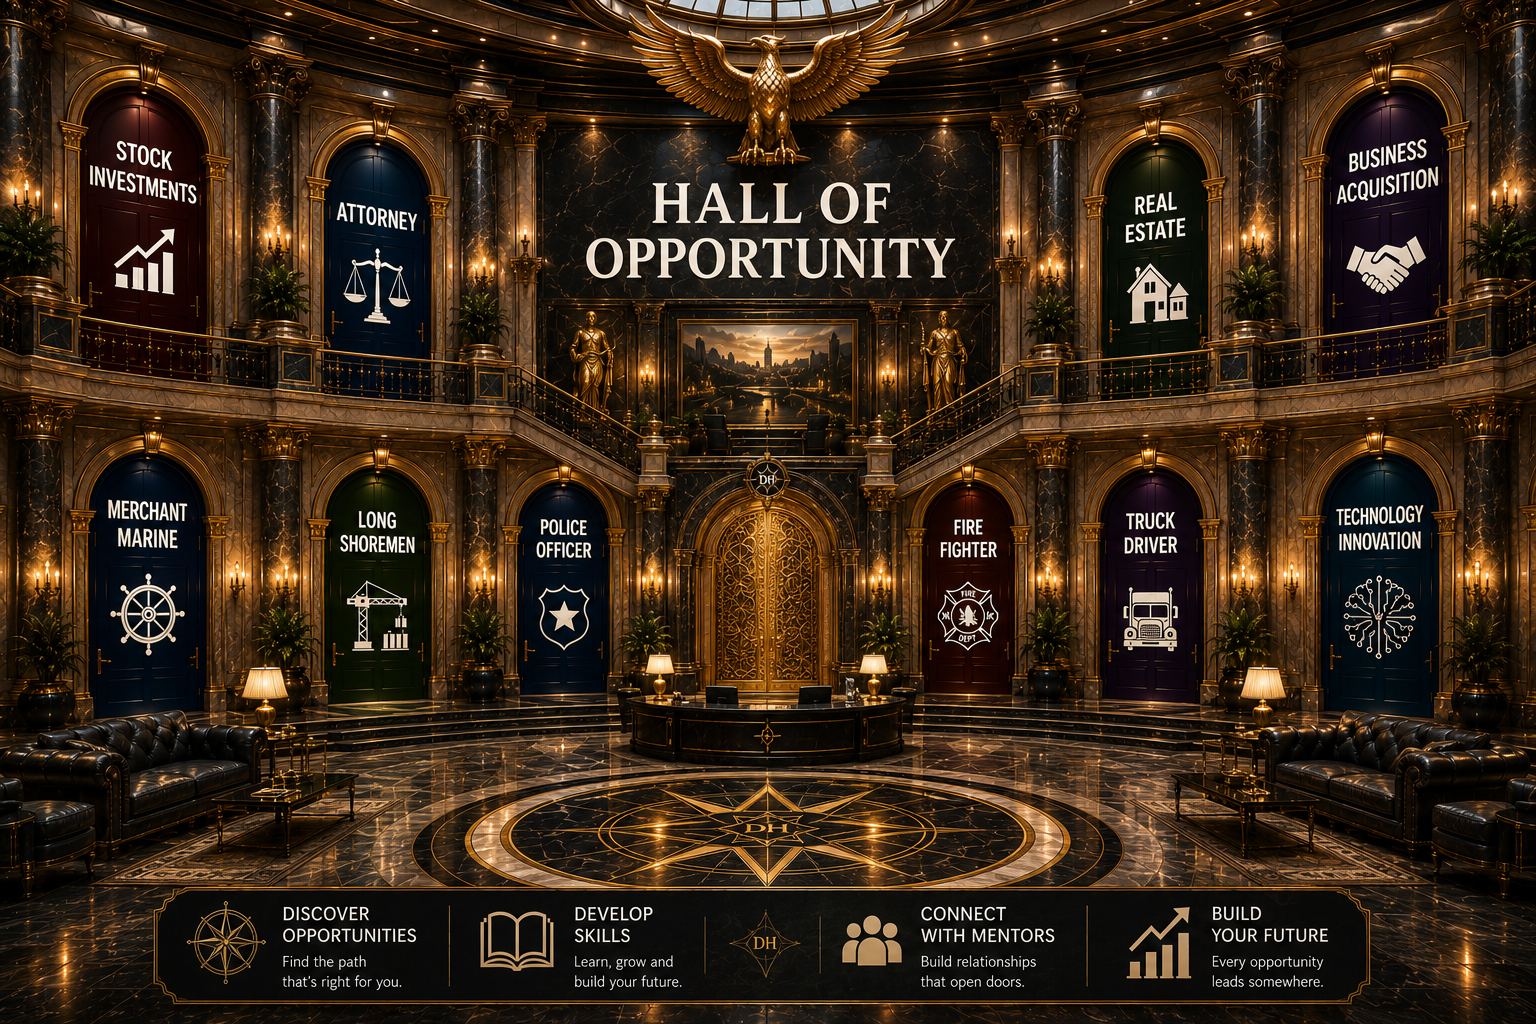
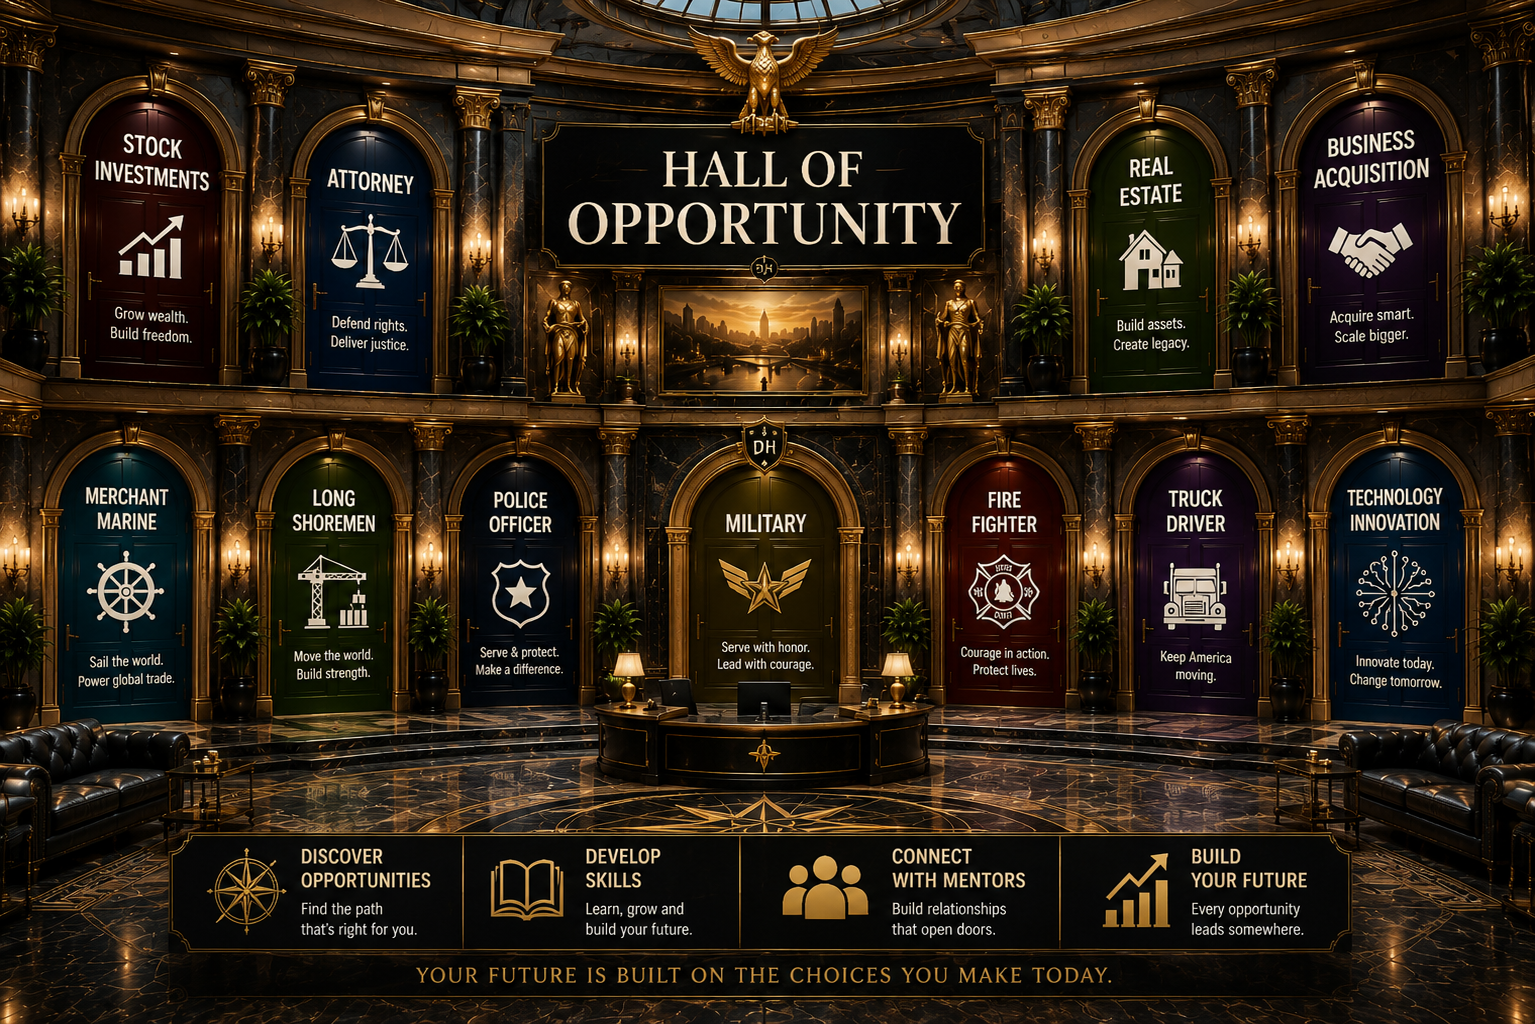
Replace interior hallway image with the Military-door version
The updated art replaces the old center grand-entrance door with a
proper "Military" door, so that pathway now gets a real name match
instead of being mapped onto the mismatched "Stock Investments" door.

Re-measured all 11 door positions in the new image and rebuilt
hallwayHotspots.ts: 6 direct name matches (up from 5), Real Estate
reassigned to Construction & Skilled Trades (better thematic fit than
its previous assignment), and "Stock Investments" is now intentionally
left without a hotspot since there's no pathway left to assign it to,
rather than sending a click to something unrelated.

Claude-Session: https://claude.ai/code/session_012ZiwYU8bzb6fNjUgie4oaQ

diff --git a/src/lib/hallwayHotspots.ts b/src/lib/hallwayHotspots.ts
@@ -3,16 +3,18 @@
  * public/images/hall-of-opportunity-interior.png (measured directly from
  * the image, in percent so they scale with the rendered image size).
  *
- * The reference art's 10 painted door labels don't all match our 10 real
- * pathways — 5 line up exactly (Merchant Marine, Longshoremen, Police
- * Officer, Firefighter, Truck Driver); the other 5 image doors (Stock
- * Investments, Attorney, Real Estate, Business Acquisition, Technology
- * Innovation) have no equivalent in our list, and Military, Construction
- * & Skilled Trades, Healthcare, and Cybersecurity have no door in the
- * image. Rather than inventing new pathways to match the art, the
- * remaining 5 slots are assigned to our remaining 5 real pathways so
- * every pathway stays reachable — the clicked label just won't always
- * match the image's painted text.
+ * This image's 11 painted doors don't all match our 10 real pathways —
+ * 6 line up exactly (Merchant Marine, Longshoremen, Police Officer,
+ * Military, Firefighter, Truck Driver). Of the remaining 5 image doors
+ * (Stock Investments, Attorney, Real Estate, Business Acquisition,
+ * Technology Innovation), 4 are assigned to our remaining 4 real
+ * pathways — picking the closest thematic fit where one exists
+ * (Real Estate → Construction & Skilled Trades; Technology Innovation →
+ * AI Architect) and otherwise arbitrarily (Attorney → Cybersecurity;
+ * Business Acquisition → Healthcare). "Stock Investments" has no
+ * pathway left to assign and is intentionally left without a hotspot —
+ * clicking it does nothing, rather than sending someone to an
+ * unrelated pathway.
  */
 
 export interface HallwayHotspot {
@@ -26,16 +28,16 @@ export interface HallwayHotspot {
 
 export const HALLWAY_HOTSPOTS: HallwayHotspot[] = [
   // Upper gallery
-  { pathwaySlug: "military", imageLabel: "Stock Investments", top: 11, left: 4, width: 11, height: 21 },
-  { pathwaySlug: "construction-skilled-trades", imageLabel: "Attorney", top: 11, left: 20, width: 9, height: 21 },
-  { pathwaySlug: "healthcare", imageLabel: "Real Estate", top: 11, left: 71, width: 9, height: 21 },
-  { pathwaySlug: "cybersecurity", imageLabel: "Business Acquisition", top: 11, left: 85, width: 11, height: 21 },
+  { pathwaySlug: "cybersecurity", imageLabel: "Attorney", top: 10, left: 19, width: 12, height: 24 },
+  { pathwaySlug: "construction-skilled-trades", imageLabel: "Real Estate", top: 10, left: 70, width: 10, height: 24 },
+  { pathwaySlug: "healthcare", imageLabel: "Business Acquisition", top: 10, left: 84, width: 12, height: 24 },
 
   // Lower gallery
-  { pathwaySlug: "merchant-marine", imageLabel: "Merchant Marine", top: 42, left: 4, width: 11, height: 25 },
-  { pathwaySlug: "longshoremen", imageLabel: "Longshoremen", top: 42, left: 20, width: 9, height: 25 },
-  { pathwaySlug: "police-officer", imageLabel: "Police Officer", top: 42, left: 33, width: 8, height: 25 },
-  { pathwaySlug: "firefighter", imageLabel: "Fire Fighter", top: 42, left: 59, width: 9, height: 25 },
-  { pathwaySlug: "truck-driver", imageLabel: "Truck Driver", top: 42, left: 71, width: 9, height: 25 },
-  { pathwaySlug: "ai-architect", imageLabel: "Technology Innovation", top: 42, left: 85, width: 12, height: 25 },
+  { pathwaySlug: "merchant-marine", imageLabel: "Merchant Marine", top: 44, left: 5, width: 12, height: 24 },
+  { pathwaySlug: "longshoremen", imageLabel: "Longshoremen", top: 44, left: 19, width: 12, height: 24 },
+  { pathwaySlug: "police-officer", imageLabel: "Police Officer", top: 44, left: 32, width: 10, height: 24 },
+  { pathwaySlug: "military", imageLabel: "Military", top: 44, left: 45, width: 10, height: 24 },
+  { pathwaySlug: "firefighter", imageLabel: "Fire Fighter", top: 44, left: 60, width: 11, height: 24 },
+  { pathwaySlug: "truck-driver", imageLabel: "Truck Driver", top: 44, left: 73, width: 9, height: 24 },
+  { pathwaySlug: "ai-architect", imageLabel: "Technology Innovation", top: 44, left: 86, width: 10, height: 24 },
 ];

diff --git a/ARCHITECTURE.md b/ARCHITECTURE.md
@@ -38,9 +38,16 @@ regions layered over each painted door.
 
 `src/lib/hallwayHotspots.ts` maps each door's on-image position (measured
 in percent, so it scales with the rendered image) to a pathway slug. The
-reference art's painted door labels don't all match our 10 real pathways
-— see that file's comment for which 5 line up by name and how the other
-5 are assigned. `PATHWAYS` (`src/lib/pathways.ts`) still defines the
+current interior image has 11 painted doors (an update added a proper
+"Military" door in place of the old center entrance) against our 10 real
+pathways — 6 line up by name (Merchant Marine, Longshoremen, Police
+Officer, Military, Firefighter, Truck Driver), 4 more are assigned to
+the closest thematic fit available (Real Estate → Construction & Skilled
+Trades, Technology Innovation → AI Architect) or arbitrarily where no
+fit exists (Attorney → Cybersecurity, Business Acquisition →
+Healthcare), and "Stock Investments" is intentionally left with no
+hotspot rather than pointed at an unrelated pathway. `PATHWAYS`
+(`src/lib/pathways.ts`) still defines the
 gradient/icon/atmosphere metadata used on each pathway's own page; it's
 no longer used to render doors directly on the homepage. `/pathways/[slug]`
 requires a working image at `public/images/` — if a different/updated